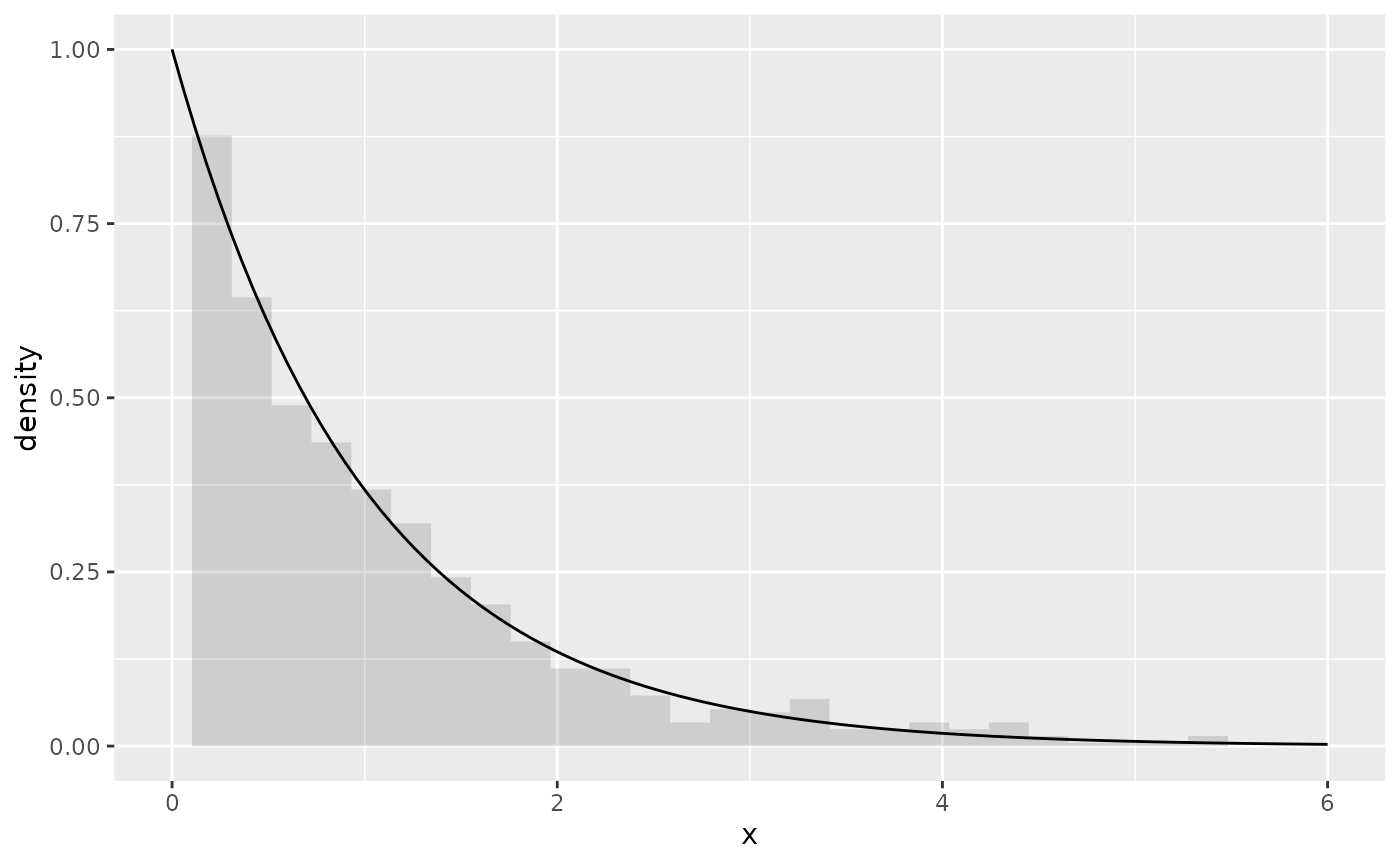
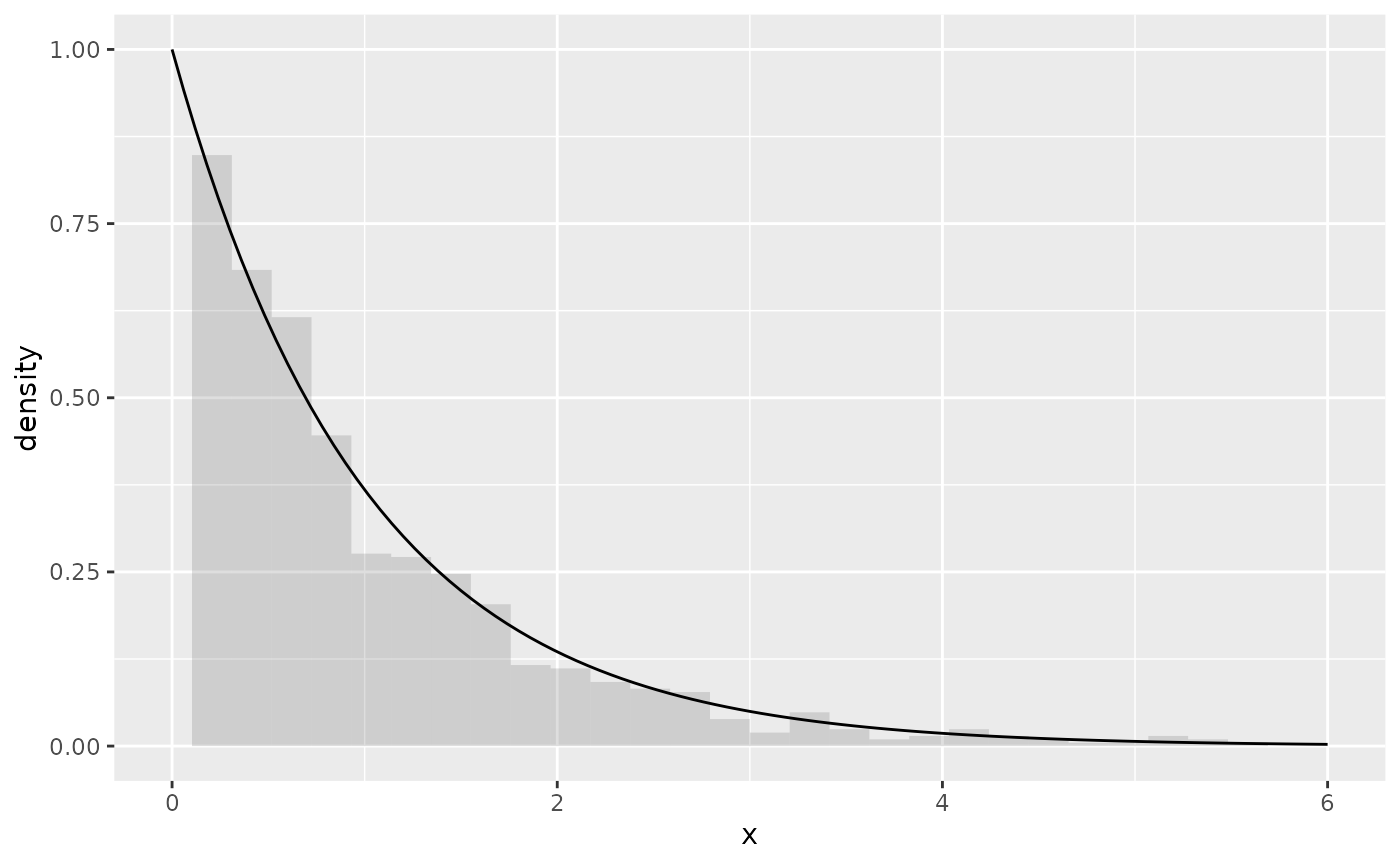
Built site for algebraic.mle: 0.9.0@da79619

diff --git a/articles/exponential-mle.html b/articles/exponential-mle.html
@@ -105,10 +105,10 @@
 <span class="co">#&gt; <span style="color: #949494;"># A tibble: 4 × 1</span></span>
 <span class="co">#&gt;       x</span>
 <span class="co">#&gt;   <span style="color: #949494; font-style: italic;">&lt;dbl&gt;</span></span>
-<span class="co">#&gt; <span style="color: #BCBCBC;">1</span> 0.611</span>
-<span class="co">#&gt; <span style="color: #BCBCBC;">2</span> 1.41 </span>
-<span class="co">#&gt; <span style="color: #BCBCBC;">3</span> 0.272</span>
-<span class="co">#&gt; <span style="color: #BCBCBC;">4</span> 0.245</span></code></pre></div>
+<span class="co">#&gt; <span style="color: #BCBCBC;">1</span> 0.637</span>
+<span class="co">#&gt; <span style="color: #BCBCBC;">2</span> 0.654</span>
+<span class="co">#&gt; <span style="color: #BCBCBC;">3</span> 1.67 </span>
+<span class="co">#&gt; <span style="color: #BCBCBC;">4</span> 0.596</span></code></pre></div>
 <p>We show a histogram of the sample overlaid with a plot of the exponential function’s pdf, with:</p>
 <div class="sourceCode" id="cb5"><pre class="downlit sourceCode r">
 <code class="sourceCode R"><span class="fu"><a href="https://ggplot2.tidyverse.org/reference/ggplot.html" class="external-link">ggplot</a></span><span class="op">(</span><span class="va">x</span>, <span class="fu"><a href="https://ggplot2.tidyverse.org/reference/aes.html" class="external-link">aes</a></span><span class="op">(</span>x<span class="op">=</span><span class="va">x</span><span class="op">)</span><span class="op">)</span> <span class="op">+</span> <span class="fu"><a href="https://ggplot2.tidyverse.org/reference/geom_histogram.html" class="external-link">geom_histogram</a></span><span class="op">(</span><span class="fu"><a href="https://ggplot2.tidyverse.org/reference/aes.html" class="external-link">aes</a></span><span class="op">(</span>y<span class="op">=</span><span class="va">..density..</span><span class="op">)</span>,alpha<span class="op">=</span><span class="fl">.2</span><span class="op">)</span> <span class="op">+</span>
@@ -125,35 +125,35 @@
 <span class="fu"><a href="https://rdrr.io/r/base/summary.html" class="external-link">summary</a></span><span class="op">(</span><span class="va">rate.hat</span><span class="op">)</span>
 <span class="co">#&gt; Maximum likelihood estimator, of type mle ,</span>
 <span class="co">#&gt; is normally distributed with mean</span>
-<span class="co">#&gt; [1] 0.964931</span>
+<span class="co">#&gt; [1] 1.046353</span>
 <span class="co">#&gt; and variance-covariance</span>
-<span class="co">#&gt;              [,1]</span>
-<span class="co">#&gt; [1,] 0.0009310917</span>
+<span class="co">#&gt;             [,1]</span>
+<span class="co">#&gt; [1,] 0.001094855</span>
 <span class="co">#&gt; ---</span>
-<span class="co">#&gt; The asymptotic mean squared error 0.0009310917 </span>
+<span class="co">#&gt; The asymptotic mean squared error 0.001094855 </span>
 <span class="co">#&gt; The asymptotic 95% confidence interval is</span>
 <span class="co">#&gt;       2.5 %   97.5 %</span>
-<span class="co">#&gt; 1 0.9147402 1.015122</span>
-<span class="co">#&gt; The log-likelihood is -1035.699 </span>
-<span class="co">#&gt; The AIC is 2073.397</span></code></pre></div>
+<span class="co">#&gt; 1 0.9919273 1.100779</span>
+<span class="co">#&gt; The log-likelihood is -954.6891 </span>
+<span class="co">#&gt; The AIC is 1911.378</span></code></pre></div>
 <p>We can show the point estimator with:</p>
 <div class="sourceCode" id="cb7"><pre class="downlit sourceCode r">
 <code class="sourceCode R"><span class="fu"><a href="../reference/point.html">point</a></span><span class="op">(</span><span class="va">rate.hat</span><span class="op">)</span>
-<span class="co">#&gt; [1] 0.964931</span></code></pre></div>
+<span class="co">#&gt; [1] 1.046353</span></code></pre></div>
 <p>We can show the Fisher information and variance-covariance matrices with:</p>
 <div class="sourceCode" id="cb8"><pre class="downlit sourceCode r">
 <code class="sourceCode R"><span class="fu"><a href="../reference/fisher_info.html">fisher_info</a></span><span class="op">(</span><span class="va">rate.hat</span><span class="op">)</span>
-<span class="co">#&gt;          [,1]</span>
-<span class="co">#&gt; [1,] 1074.008</span>
+<span class="co">#&gt;         [,1]</span>
+<span class="co">#&gt; [1,] 913.363</span>
 <span class="fu"><a href="https://rdrr.io/r/stats/vcov.html" class="external-link">vcov</a></span><span class="op">(</span><span class="va">rate.hat</span><span class="op">)</span>
-<span class="co">#&gt;              [,1]</span>
-<span class="co">#&gt; [1,] 0.0009310917</span></code></pre></div>
+<span class="co">#&gt;             [,1]</span>
+<span class="co">#&gt; [1,] 0.001094855</span></code></pre></div>
 <p>(If <code>rate.hat</code> had been a vector, <code>vcov</code> would have output a variance-covariance matrix. We may consider the above outputs <span class="math inline">\(1 \times 1\)</span> matrices.)</p>
 <p>We can show the confidence interval with:</p>
 <div class="sourceCode" id="cb9"><pre class="downlit sourceCode r">
 <code class="sourceCode R"><span class="fu"><a href="https://rdrr.io/r/stats/confint.html" class="external-link">confint</a></span><span class="op">(</span><span class="va">rate.hat</span><span class="op">)</span>
 <span class="co">#&gt;       2.5 %   97.5 %</span>
-<span class="co">#&gt; 1 0.9147402 1.015122</span></code></pre></div>
+<span class="co">#&gt; 1 0.9919273 1.100779</span></code></pre></div>
 <div class="section level3">
 <h3 id="sampling-distribution-of-the-mle">Sampling distribution of the MLE<a class="anchor" aria-label="anchor" href="#sampling-distribution-of-the-mle"></a>
 </h3>
@@ -206,10 +206,10 @@
 <div class="sourceCode" id="cb15"><pre class="downlit sourceCode r">
 <code class="sourceCode R"><span class="fu"><a href="../reference/point.html">point</a></span><span class="op">(</span><span class="va">f.hat</span><span class="op">)</span>
 <span class="co">#&gt;          [,1]</span>
-<span class="co">#&gt; [1,] 1.929862</span>
+<span class="co">#&gt; [1,] 2.092706</span>
 <span class="fu"><a href="https://rdrr.io/r/stats/vcov.html" class="external-link">vcov</a></span><span class="op">(</span><span class="va">f.hat</span><span class="op">)</span>
 <span class="co">#&gt;             [,1]</span>
-<span class="co">#&gt; [1,] 0.003896016</span></code></pre></div>
+<span class="co">#&gt; [1,] 0.004114941</span></code></pre></div>
 </div>
 </div>
 </div>
@@ -248,9 +248,9 @@
 <span class="fu"><a href="https://rdrr.io/r/base/colnames.html" class="external-link">colnames</a></span><span class="op">(</span><span class="va">df</span><span class="op">)</span> <span class="op">&lt;-</span> <span class="fu"><a href="https://rdrr.io/r/base/c.html" class="external-link">c</a></span><span class="op">(</span><span class="st">"point estimate"</span>,<span class="st">"variance"</span><span class="op">)</span>
 <span class="fu"><a href="https://tibble.tidyverse.org/reference/rownames.html" class="external-link">rownames</a></span><span class="op">(</span><span class="va">df</span><span class="op">)</span> <span class="op">&lt;-</span> <span class="fu"><a href="https://rdrr.io/r/base/c.html" class="external-link">c</a></span><span class="op">(</span><span class="st">"weighted MLE"</span>, <span class="st">"MLE"</span><span class="op">)</span>
 <span class="fu"><a href="https://rdrr.io/r/base/print.html" class="external-link">print</a></span><span class="op">(</span><span class="va">df</span><span class="op">)</span>
-<span class="co">#&gt;              point estimate    variance</span>
-<span class="co">#&gt; weighted MLE       1.012678 0.001027428</span>
-<span class="co">#&gt; MLE                1.014566 0.001029343</span></code></pre></div>
+<span class="co">#&gt;              point estimate     variance</span>
+<span class="co">#&gt; weighted MLE      0.9668634 0.0009375704</span>
+<span class="co">#&gt; MLE               0.9697030 0.0009403240</span></code></pre></div>
 <p>We see that <span class="math inline">\(\hat\theta\)</span> and <span class="math inline">\(\hat\theta_w\)</span> model approximately the same sampling distribution for <span class="math inline">\(\theta\)</span>.</p>
 </div>
 </div>

diff --git a/reference/mle_samp_bs_loglike.html b/reference/mle_samp_bs_loglike.html
@@ -63,12 +63,12 @@ MLE's sampling distribution using the Bootstrap method.</p>
 
     <div class="section level2">
     <h2 id="ref-usage">Usage<a class="anchor" aria-label="anchor" href="#ref-usage"></a></h2>
-    <div class="sourceCode"><pre class="sourceCode r"><code><span class="fu">mle_samp_bs_loglike</span><span class="op">(</span><span class="va">x</span>, <span class="va">loglike</span>, data <span class="op">=</span> <span class="cn">NULL</span>, R <span class="op">=</span> <span class="cn">NULL</span>, <span class="va">...</span><span class="op">)</span></code></pre></div>
+    <div class="sourceCode"><pre class="sourceCode r"><code><span class="fu">mle_samp_bs_loglike</span><span class="op">(</span><span class="va">mle</span>, <span class="va">loglike</span>, data <span class="op">=</span> <span class="cn">NULL</span>, R <span class="op">=</span> <span class="cn">NULL</span>, <span class="va">...</span><span class="op">)</span></code></pre></div>
     </div>
 
     <div class="section level2">
     <h2 id="arguments">Arguments<a class="anchor" aria-label="anchor" href="#arguments"></a></h2>
-    <dl><dt>x</dt>
+    <dl><dt>mle</dt>
 <dd><p>a fitted <code>mle</code> object.</p></dd>
 <dt>loglike</dt>
 <dd><p>a generator for the log-likelihood function; it accepts

diff --git a/reference/mle_iterative.html b/reference/mle_iterative.html
@@ -65,7 +65,8 @@
   sup <span class="op">=</span> <span class="cn">NULL</span>,
   eta <span class="op">=</span> <span class="fl">1</span>,
   r <span class="op">=</span> <span class="fl">0.5</span>,
-  max_iter <span class="op">=</span> <span class="fl">0L</span>
+  max_iter <span class="op">=</span> <span class="fl">0L</span>,
+  debug <span class="op">=</span> <span class="cn">F</span>
 <span class="op">)</span></code></pre></div>
     </div>
 
@@ -87,6 +88,8 @@
 <dd><p>backing tracking parameter</p></dd>
 <dt>max_iter</dt>
 <dd><p>maximum number of iterations</p></dd>
+<dt>debug</dt>
+<dd><p>Boolean, output debugging information if TRUE; defaults to FALSE</p></dd>
 </dl></div>
 
   </main><aside class="col-md-3"><nav id="toc"><h2>On this page</h2>

diff --git a/reference/mle_newton_raphson.html b/reference/mle_newton_raphson.html
@@ -66,7 +66,8 @@
   sup <span class="op">=</span> <span class="cn">NULL</span>,
   eta <span class="op">=</span> <span class="fl">1</span>,
   r <span class="op">=</span> <span class="fl">0.5</span>,
-  max_iter <span class="op">=</span> <span class="fl">0L</span>
+  max_iter <span class="op">=</span> <span class="fl">0L</span>,
+  debug <span class="op">=</span> <span class="cn">F</span>
 <span class="op">)</span></code></pre></div>
     </div>
 
@@ -90,6 +91,8 @@
 <dd><p>backing tracking parameter</p></dd>
 <dt>max_iter</dt>
 <dd><p>maximum number of iterations</p></dd>
+<dt>debug</dt>
+<dd><p>Boolean, output debugging information if TRUE; defaults to FALSE</p></dd>
 </dl></div>
 
   </main><aside class="col-md-3"><nav id="toc"><h2>On this page</h2>

diff --git a/reference/mle_gradient_ascent.html b/reference/mle_gradient_ascent.html
@@ -65,7 +65,8 @@
   sup <span class="op">=</span> <span class="cn">NULL</span>,
   eta <span class="op">=</span> <span class="fl">1</span>,
   r <span class="op">=</span> <span class="fl">0.5</span>,
-  max_iter <span class="op">=</span> <span class="fl">0L</span>
+  max_iter <span class="op">=</span> <span class="fl">0L</span>,
+  debug <span class="op">=</span> <span class="cn">F</span>
 <span class="op">)</span></code></pre></div>
     </div>
 
@@ -87,6 +88,8 @@
 <dd><p>backing tracking parameter</p></dd>
 <dt>max_iter</dt>
 <dd><p>maximum iterations</p></dd>
+<dt>debug</dt>
+<dd><p>Boolean, output debugging information if TRUE; defaults to FALSE</p></dd>
 </dl></div>
 
   </main><aside class="col-md-3"><nav id="toc"><h2>On this page</h2>
